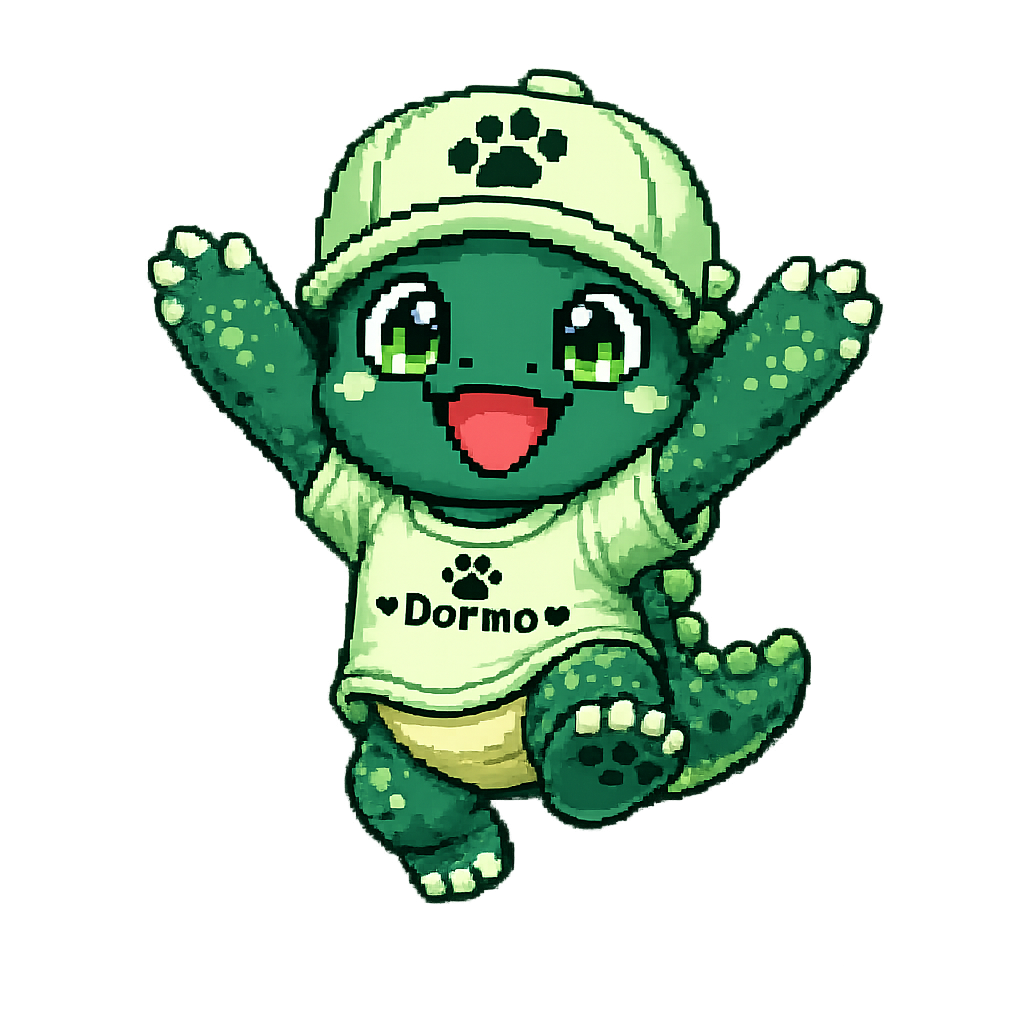
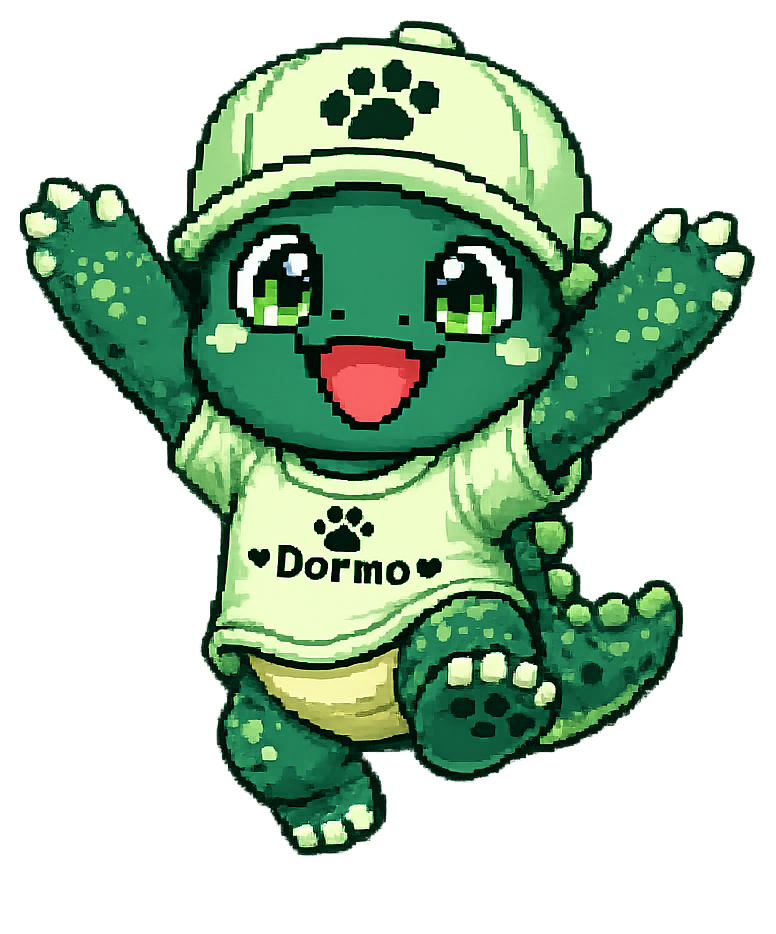
feat(ui): scale up jumping Dormo mascot to match PaWi reference proportions

diff --git a/components/mobile/splash-screen.tsx b/components/mobile/splash-screen.tsx
@@ -32,11 +32,11 @@ export function MobileSplashScreen() {
 
       {/* ── 2. Upper Scene: Floating Jumping Mascot ─────────────────── */}
       <div
-        className="relative z-10 flex flex-1 items-center justify-center pt-8 px-6"
-        style={{ paddingTop: 'max(2.5rem, env(safe-area-inset-top, 2.5rem))' }}
+        className="relative z-10 flex flex-1 items-center justify-center pt-4 sm:pt-8 px-6"
+        style={{ paddingTop: 'max(2rem, env(safe-area-inset-top, 2rem))' }}
       >
         <motion.div
-          className="relative w-56 sm:w-64 max-h-[38vh] aspect-square flex items-center justify-center"
+          className="relative w-[280px] sm:w-[320px] max-h-[44vh] aspect-[776/934] flex items-center justify-center"
           initial={{ opacity: 0, scale: 0.9, y: 12 }}
           animate={{ opacity: 1, scale: 1, y: 0 }}
           transition={{ duration: 0.6, ease: [0.16, 1, 0.3, 1] }}
@@ -44,7 +44,7 @@ export function MobileSplashScreen() {
           {/* Subtle natural ambient shadow beneath jumping mascot */}
           <div
             aria-hidden="true"
-            className="absolute -bottom-2 inset-x-12 h-6 rounded-full bg-black/40 blur-xl pointer-events-none"
+            className="absolute -bottom-3 inset-x-6 h-7 rounded-full bg-black/45 blur-2xl pointer-events-none"
           />
 
           {/* Gentle compositor-level floating animation */}
@@ -54,8 +54,8 @@ export function MobileSplashScreen() {
               alt="Dormosaur Mascot"
               fill
               priority
-              sizes="(max-width: 640px) 256px, 320px"
-              className="object-contain drop-shadow-[0_16px_32px_rgba(0,0,0,0.45)]"
+              sizes="(max-width: 640px) 320px, 384px"
+              className="object-contain drop-shadow-[0_20px_40px_rgba(0,0,0,0.5)]"
             />
           </div>
         </motion.div>
